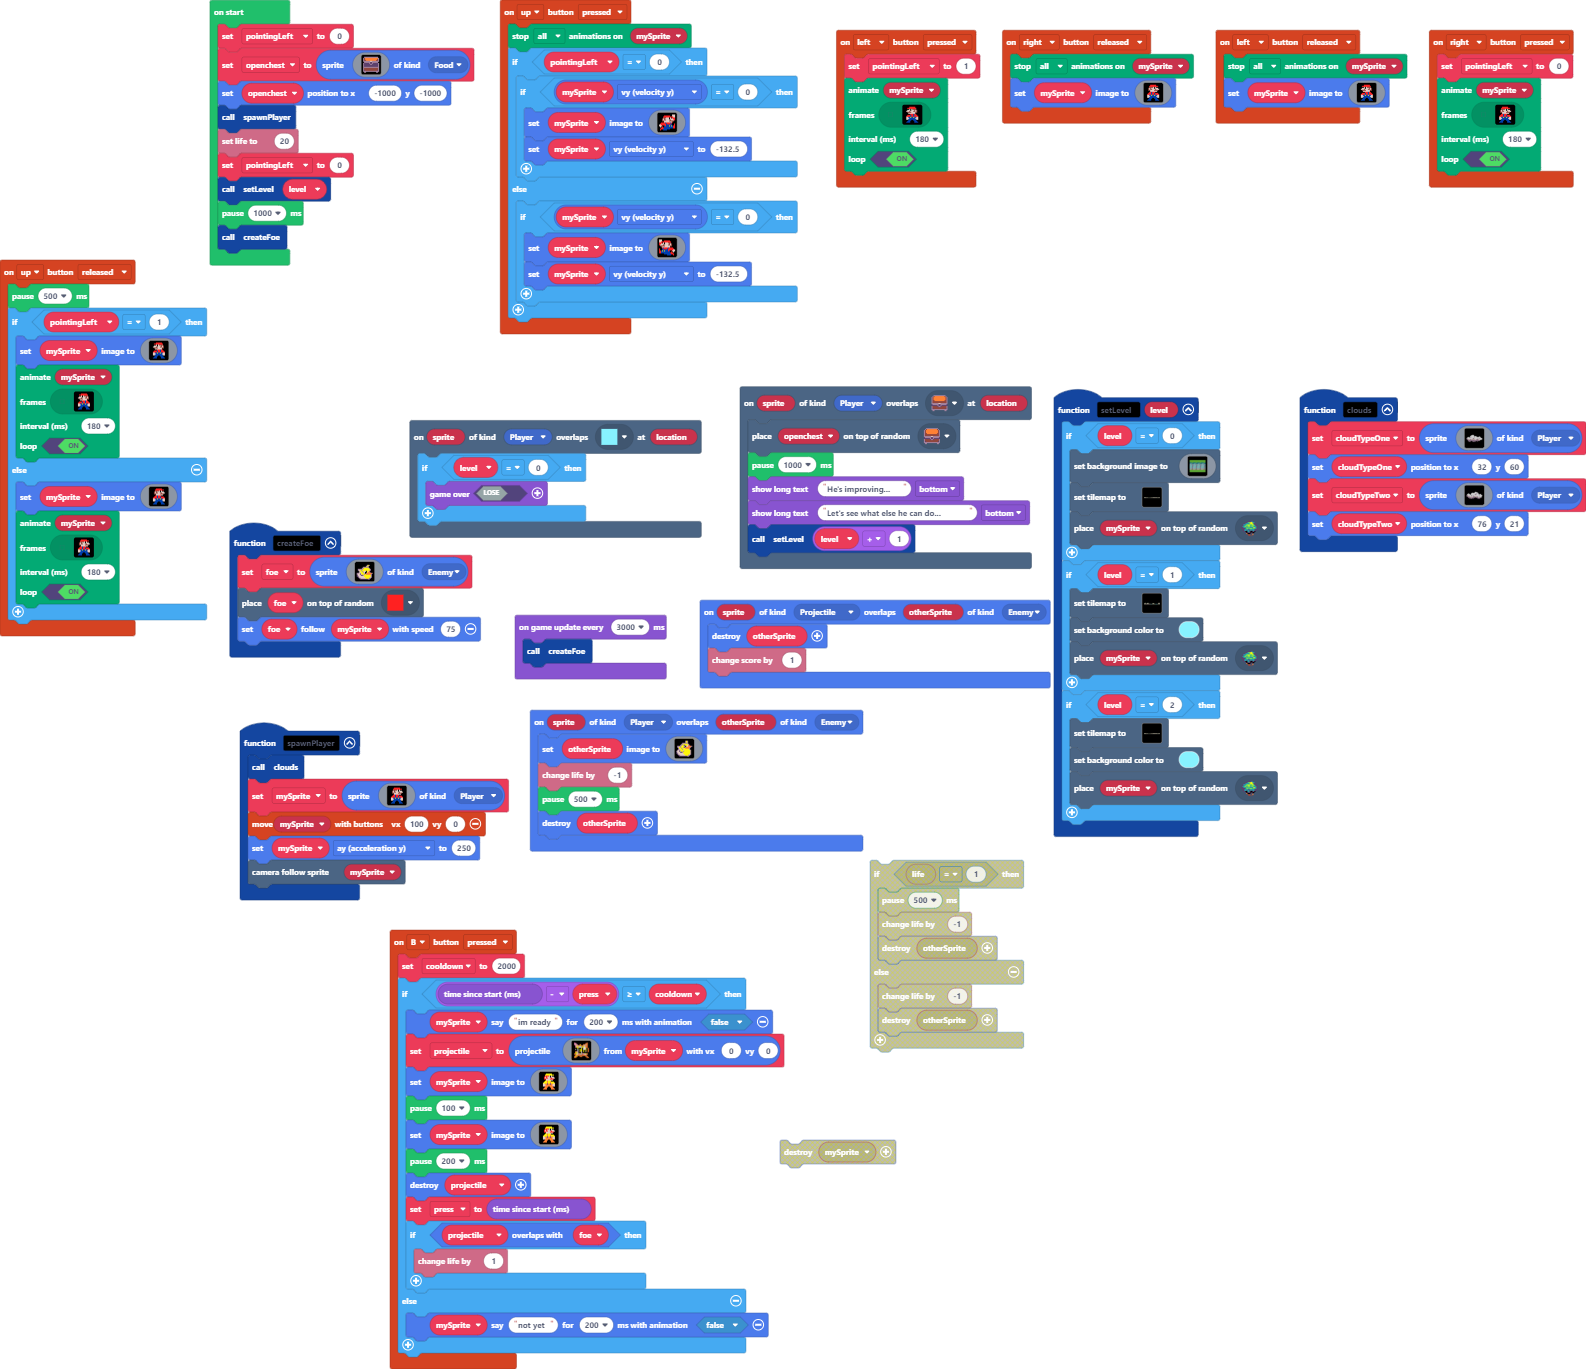
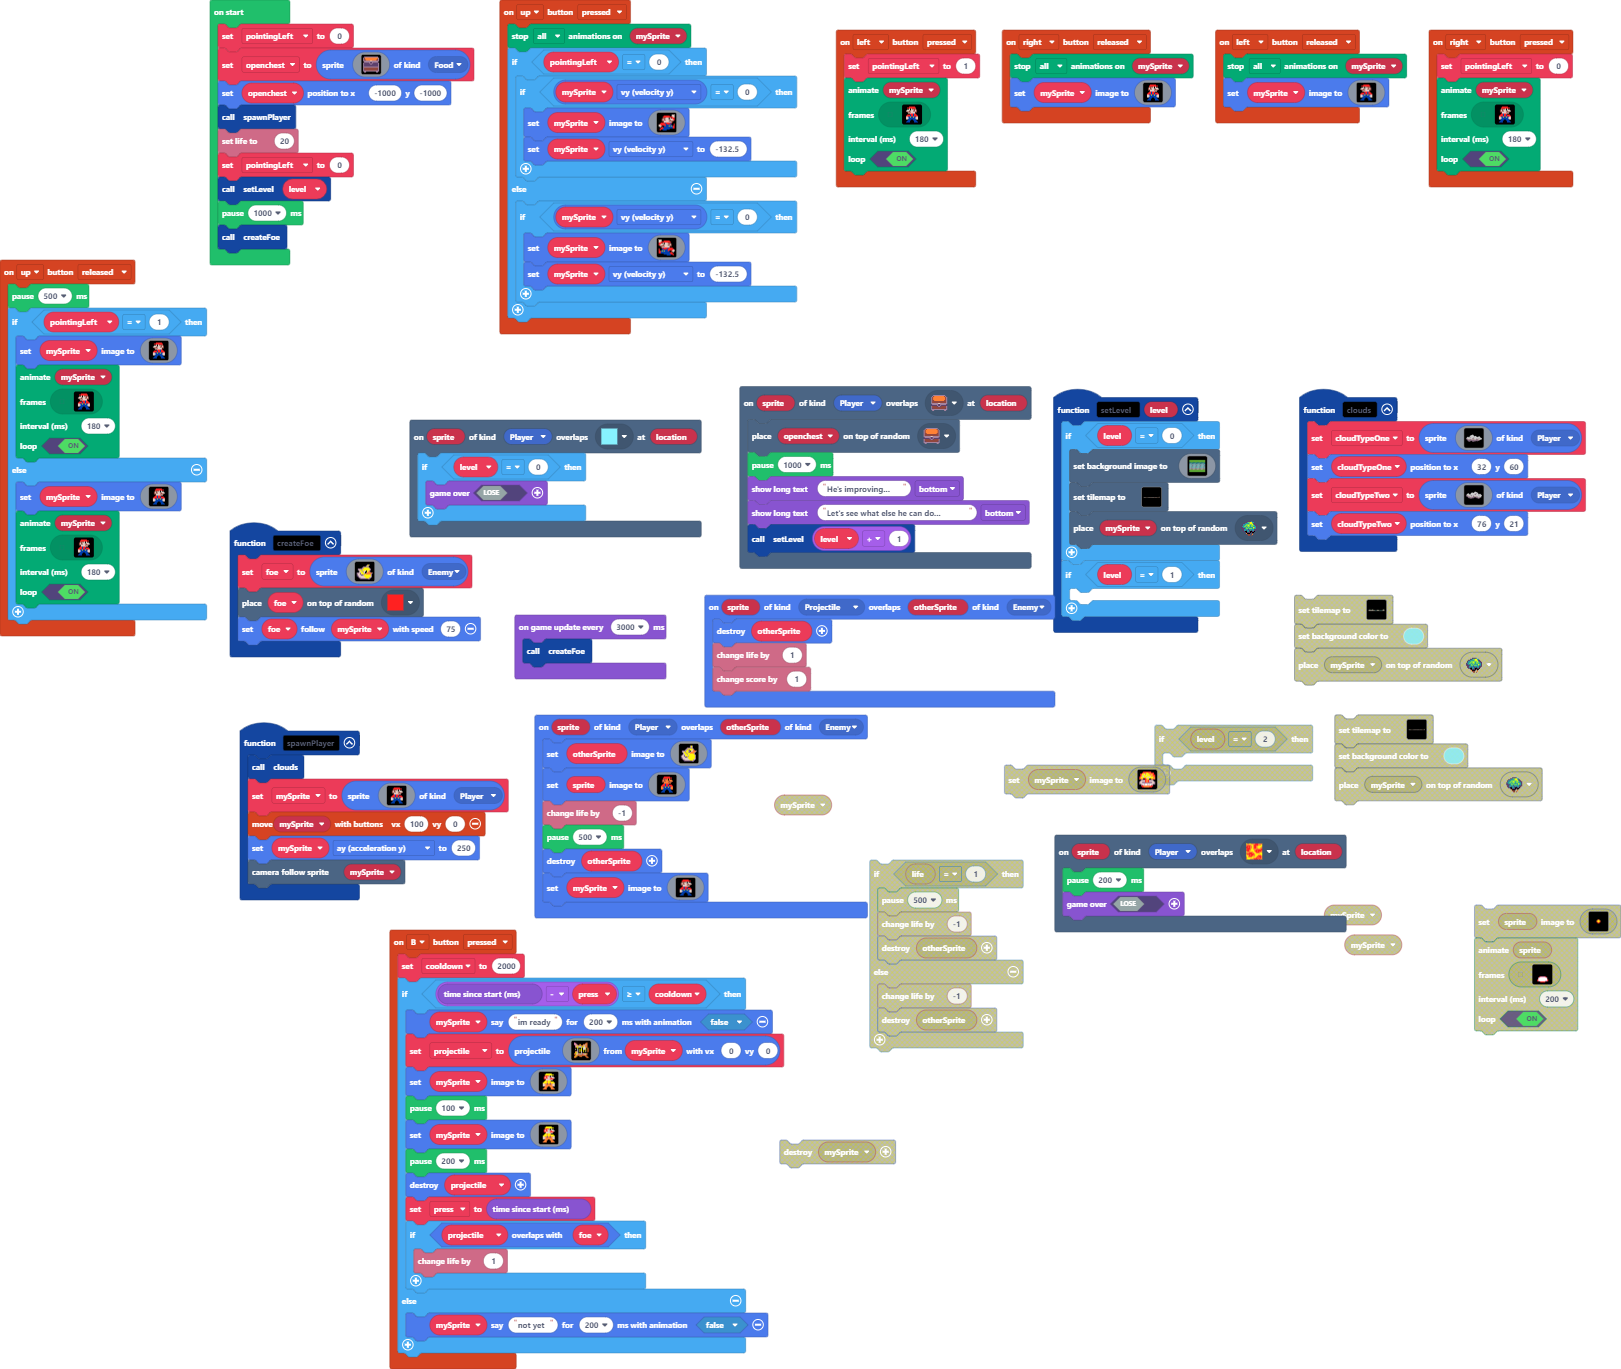
Update main.blocks, main.ts, tilemap.g.jres, tilemap.g.ts

diff --git a/tilemap.g.ts b/tilemap.g.ts
@@ -22,6 +22,8 @@ namespace myTiles {
     export const tile9 = image.ofBuffer(hex``);
     //% fixedInstance jres blockIdentity=images._tile
     export const tile10 = image.ofBuffer(hex``);
+    //% fixedInstance jres blockIdentity=images._tile
+    export const tile11 = image.ofBuffer(hex``);
 
     helpers._registerFactory("tilemap", function(name: string) {
         switch(helpers.stringTrim(name)) {
@@ -286,23 +288,23 @@ namespace myTiles {
 . . . . . . . . . . . . . . . . 
 `, [myTiles.transparency16], TileScale.Sixteen);
             case "level2":
[1 lines of base64/hex data omitted]
-....................................................................................................
-....................................................................................................
-....................................................................................................
-....................................................................................................
-....................................................................................................
-....................................................................................................
-....................................................................................................
-....................................................................................................
-....................................................................................................
-....................................................................................................
-....................................................................................................
-222222222222...........................................22222222222222222222222222..........222222222
-...........22222222222222.................22222222222222.222....................222222222222........
-........................2222222222222222222......222................................................
-...............................2222222..............................................................
-`, [myTiles.transparency16,myTiles.tile2,myTiles.tile10,sprites.castle.saplingOak,sprites.castle.tilePath5], TileScale.Sixteen);
[1 lines of base64/hex data omitted]
+......................................................................................................................................................
+......................................................................................................................................................
+......................................................................................................................................................
+......................................................................................................................................................
+......................................................................................................................................................
+......................................................................................................................................................
+......................................................................................................................................................
+......................................................................................................................................................
+.................................................................................................................................................22222
+...............................................................................................................................................222....
+..............................................................................................................................................22......
+222222222222...........................................2222222222.....22222222222..........2222222222......222222222..............2...2....2..2.......
+...........22222222222222.................22222222222222.222....2.....2.........222222222222........2......2.......222222222222...2...2....2..2.......
+........................2......222222222222......222...........22.....2.............................2......2..................2...2...2....2..2.......
+........................2......2222222.........................22.....2.............................2......2..................2...2...2....2..2.......
+`, [myTiles.transparency16,myTiles.tile2,myTiles.tile10,sprites.castle.saplingOak,sprites.castle.tilePath5,sprites.dungeon.hazardLava1,myTiles.tile11], TileScale.Sixteen);
         }
         return null;
     })
@@ -330,6 +332,8 @@ namespace myTiles {
             case "tile9":return tile9;
             case "myTile8":
             case "tile10":return tile10;
+            case "myTile9":
+            case "tile11":return tile11;
         }
         return null;
     })

diff --git a/main.ts b/main.ts
@@ -126,14 +126,7 @@ function setLevel (level: number) {
         tiles.placeOnRandomTile(mySprite, sprites.castle.saplingOak)
     }
     if (level == 1) {
-        tiles.setTilemap(tilemap`level1`)
-        scene.setBackgroundColor(9)
-        tiles.placeOnRandomTile(mySprite, sprites.castle.saplingOak)
-    }
-    if (level == 2) {
-        tiles.setTilemap(tilemap`level2`)
-        scene.setBackgroundColor(9)
-        tiles.placeOnRandomTile(mySprite, sprites.castle.saplingOak)
+    	
     }
 }
 controller.up.onEvent(ControllerButtonEvent.Pressed, function () {
@@ -307,6 +300,10 @@ controller.right.onEvent(ControllerButtonEvent.Pressed, function () {
     180,
     true
     )
+})
+scene.onOverlapTile(SpriteKind.Player, sprites.dungeon.hazardLava1, function (sprite, location) {
+    pause(200)
+    game.over(false)
 })
 controller.up.onEvent(ControllerButtonEvent.Released, function () {
     pause(500)
@@ -492,6 +489,7 @@ function createFoe () {
 }
 sprites.onOverlap(SpriteKind.Projectile, SpriteKind.Enemy, function (sprite, otherSprite) {
     otherSprite.destroy()
+    info.changeLifeBy(1)
     info.changeScoreBy(1)
 })
 sprites.onOverlap(SpriteKind.Player, SpriteKind.Enemy, function (sprite, otherSprite) {
@@ -513,9 +511,45 @@ sprites.onOverlap(SpriteKind.Player, SpriteKind.Enemy, function (sprite, otherSp
         . . c b d d d d d 5 5 5 b b . . 
         . . . c c c c c c c c b b . . . 
         `)
+    sprite.setImage(img`
+        . . . . . 2 2 2 2 2 2 . . . . . 
+        . . . . 2 2 2 2 2 2 2 2 2 . . . 
+        . . . . e e e e 4 f 4 . . . . . 
+        . . . e 4 e 4 4 4 f 4 4 4 . . . 
+        . . . e 4 e e 4 4 4 e 4 4 4 . . 
+        . . . e e 4 4 4 4 e e e e . . . 
+        . . . . . 4 4 4 4 4 4 4 . . . . 
+        . . . . 2 2 8 2 2 2 . . . . . . 
+        . . . 2 2 2 8 2 2 8 2 2 2 . . . 
+        . . 2 2 2 2 8 2 2 8 2 2 2 2 . . 
+        . . 4 4 8 8 5 8 8 5 8 8 4 4 . . 
+        . . 4 4 4 8 8 8 8 8 8 4 4 4 . . 
+        . . 4 4 8 8 8 8 8 8 8 8 4 4 . . 
+        . . . . 8 8 8 . . 8 8 8 . . . . 
+        . . . 8 8 8 . . . . 8 8 8 . . . 
+        . . 8 8 8 8 . . . . 8 8 8 8 . . 
+        `)
     info.changeLifeBy(-1)
     pause(500)
     otherSprite.destroy()
+    mySprite.setImage(img`
+        . . . . . 2 2 2 2 2 2 . . . . . 
+        . . . . 2 2 2 2 2 2 2 2 2 . . . 
+        . . . . e e e e d f d . . . . . 
+        . . . e d e d d d f d d d . . . 
+        . . . e d e e d d d e d d d . . 
+        . . . e e d d d d e e e e . . . 
+        . . . . . d d d d d d d . . . . 
+        . . . . 2 2 8 2 2 2 . . . . . . 
+        . . . 2 2 2 8 2 2 8 2 2 2 . . . 
+        . . 2 2 2 2 8 2 2 8 2 2 2 2 . . 
+        . . d d 8 8 5 8 8 5 8 8 d d . . 
+        . . d d d 8 8 8 8 8 8 d d d . . 
+        . . d d 8 8 8 8 8 8 8 8 d d . . 
+        . . . . 8 8 8 . . 8 8 8 . . . . 
+        . . . 8 8 8 . . . . 8 8 8 . . . 
+        . . 8 8 8 8 . . . . 8 8 8 8 . . 
+        `)
 })
 let cloudTypeTwo: Sprite = null
 let cloudTypeOne: Sprite = null
